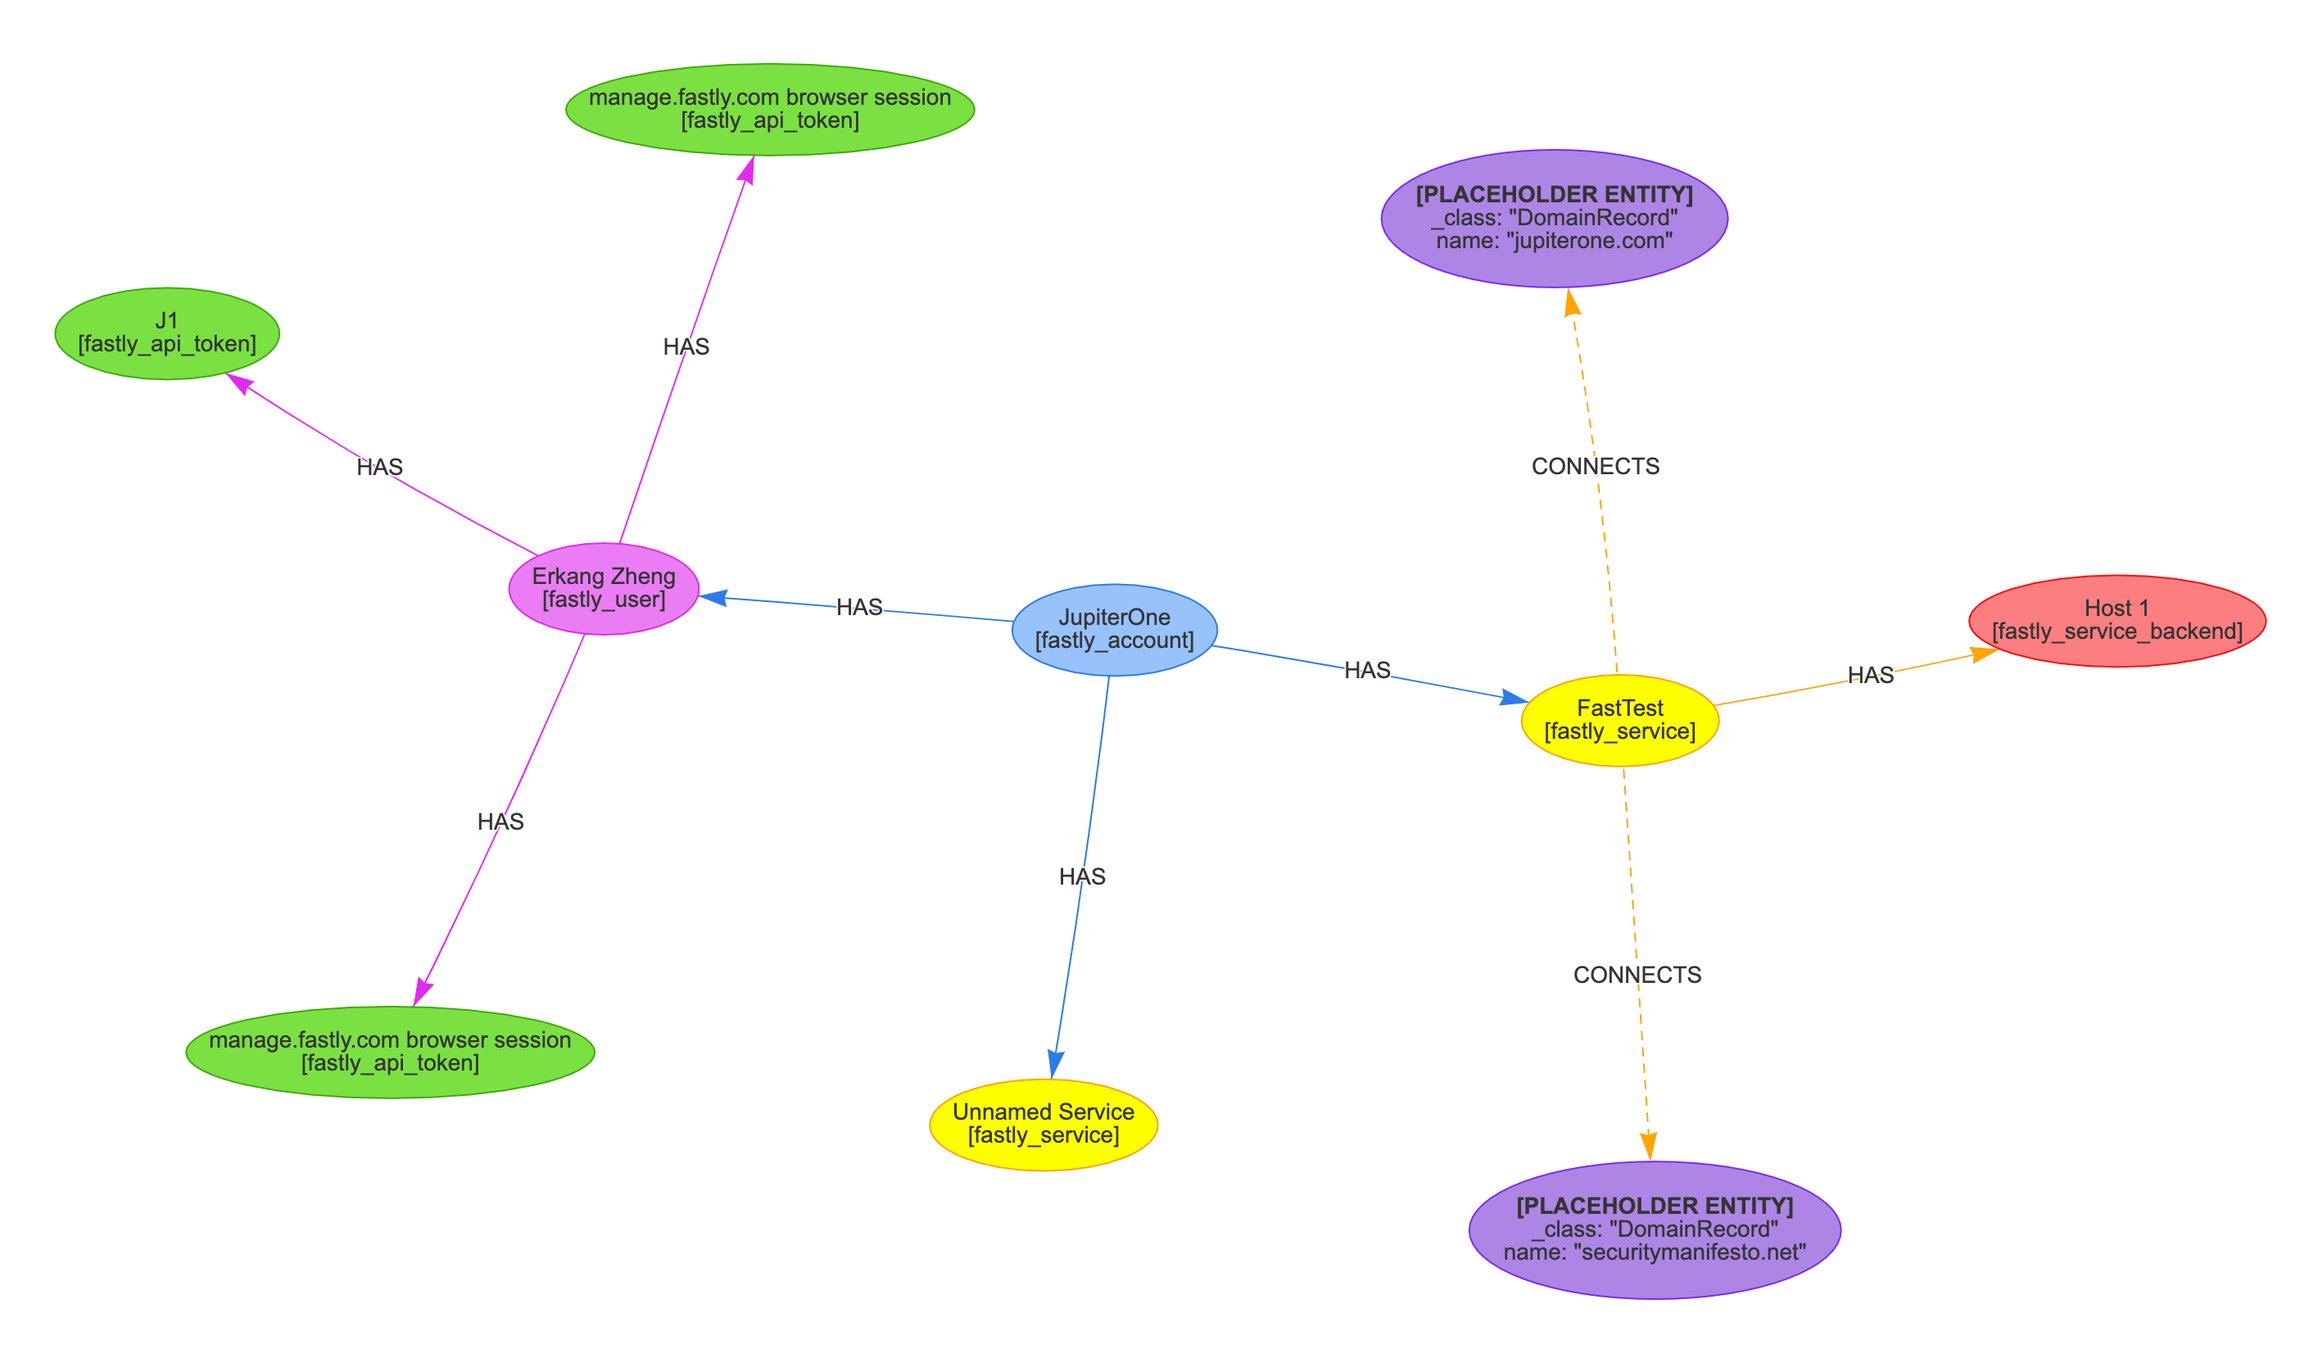
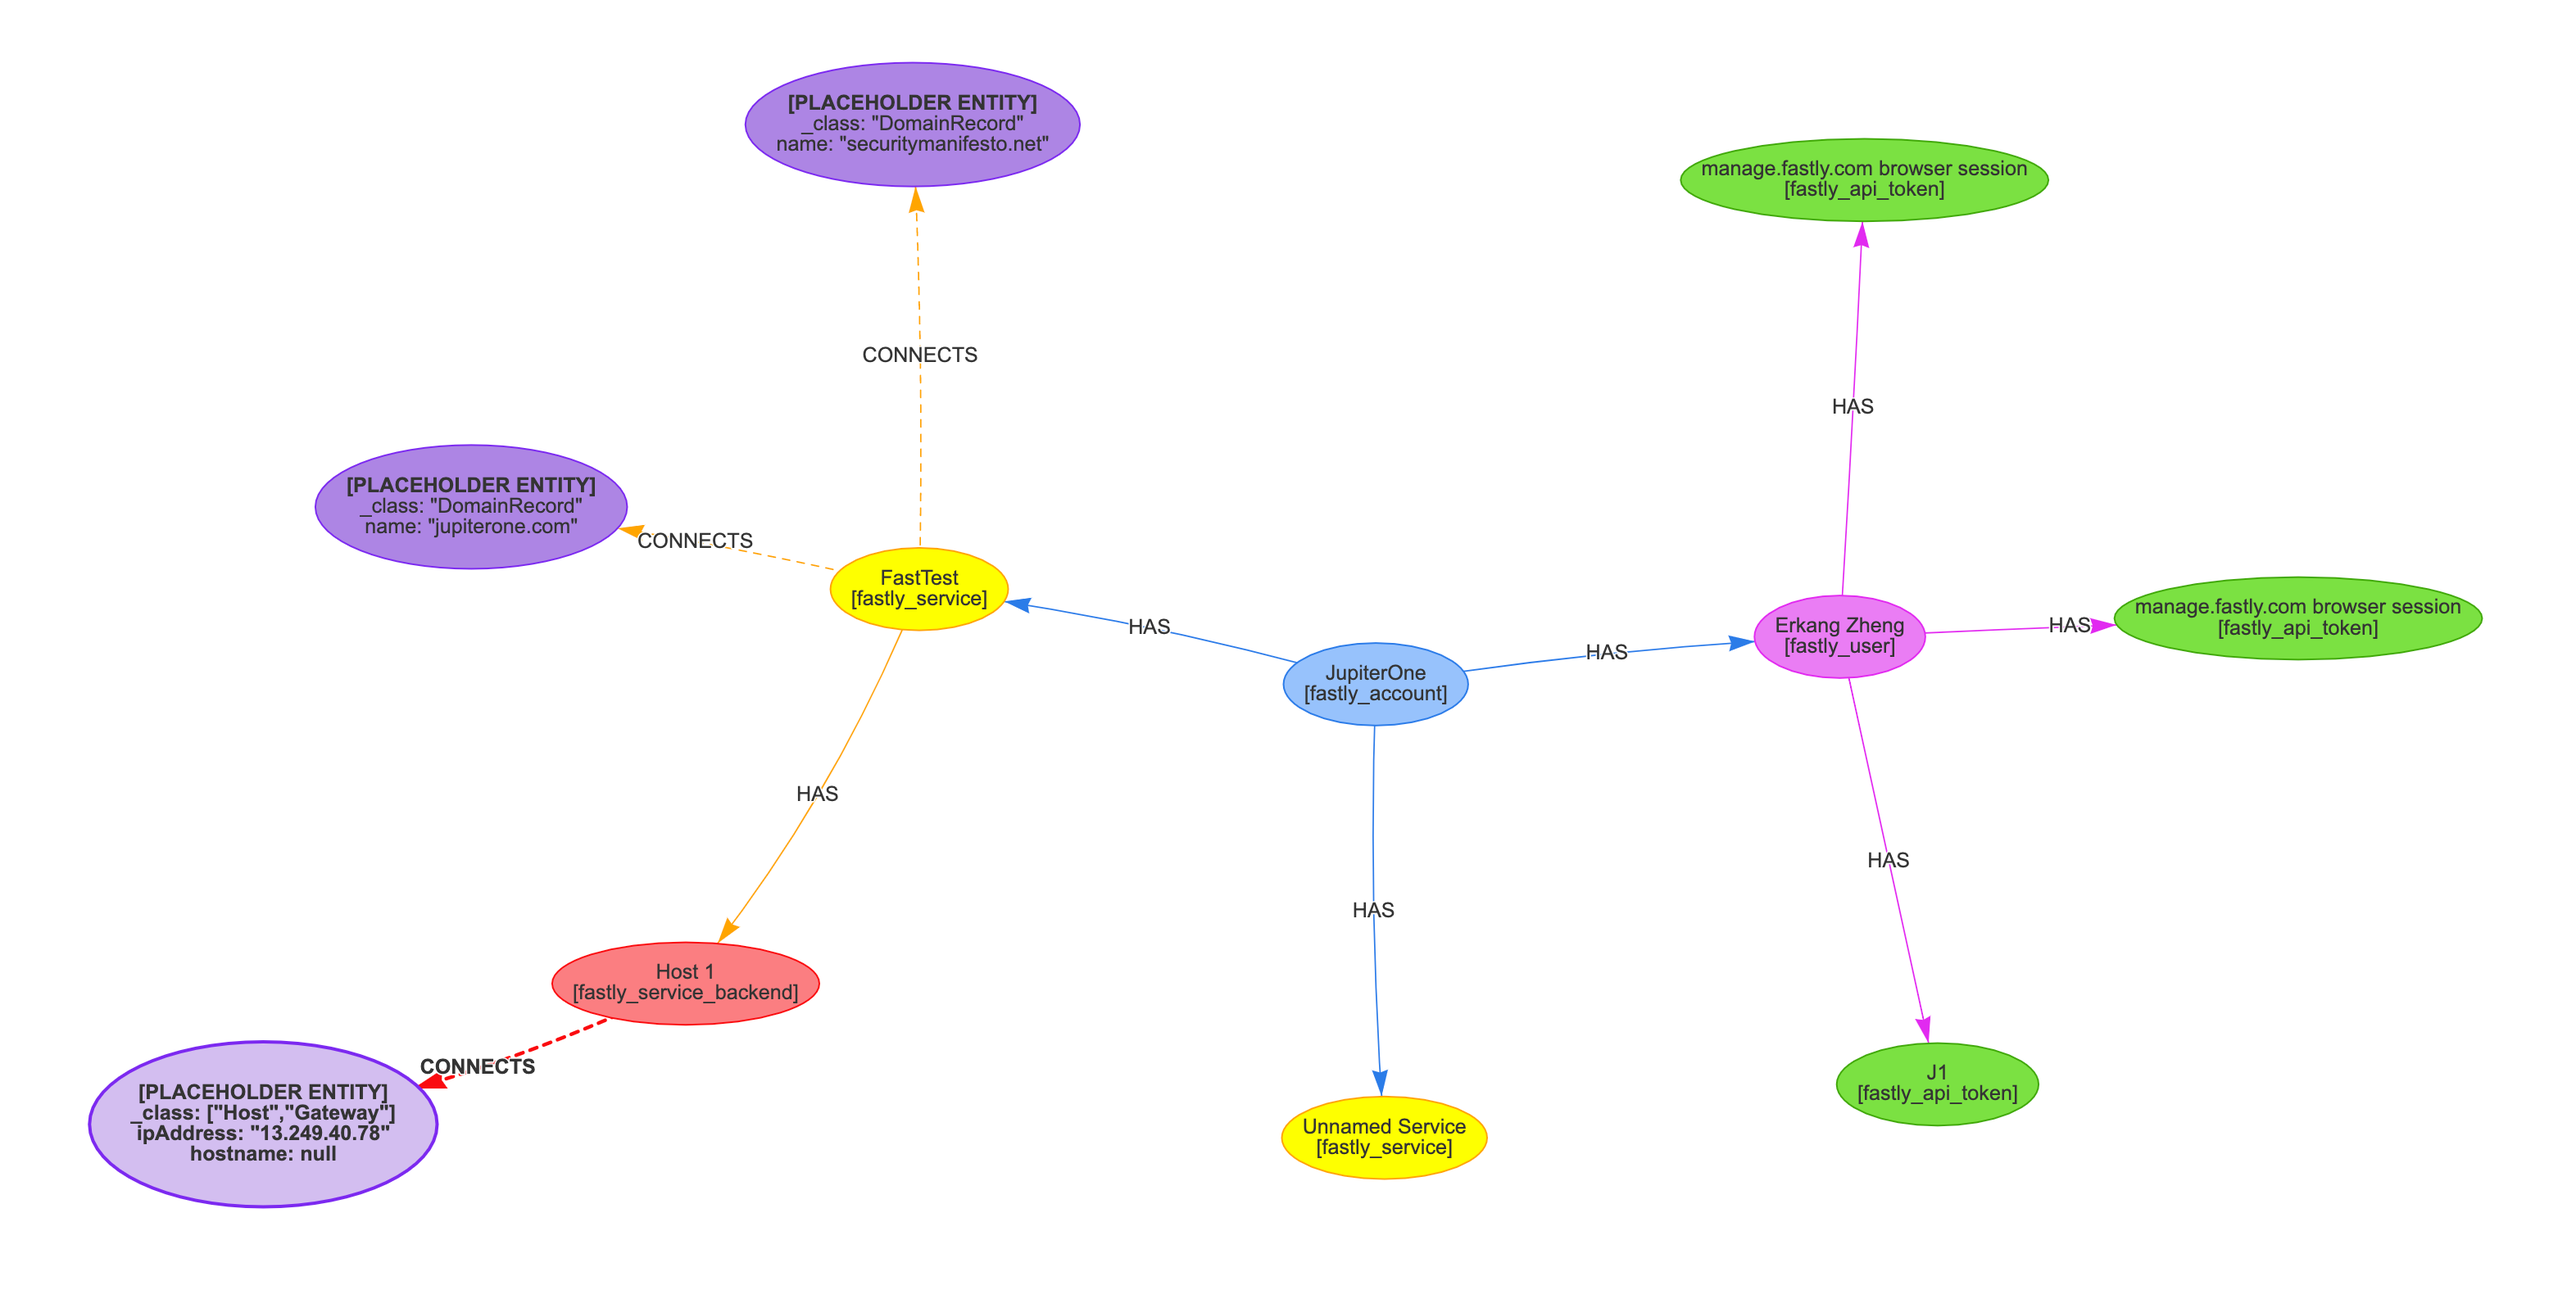
Add service_backend CONNECTS Host/Gateway mapping

diff --git a/src/steps/services.ts b/src/steps/services.ts
@@ -82,6 +82,26 @@ export async function fetchServices({
             to: backendEntity,
           }),
         ),
+        jobState.addRelationship(
+          createMappedRelationship({
+            _type: 'fastly_service_backend_connects_host',
+            _class: RelationshipClass.CONNECTS,
+            _mapping: {
+              sourceEntityKey: backendEntity._key,
+              relationshipDirection: RelationshipDirection.FORWARD,
+              targetFilterKeys: [
+                ['_class', 'ipAddress'],
+                ['_class', 'hostname'],
+              ],
+              targetEntity: {
+                _class: ['Host', 'Gateway'],
+                ipAddress: backend.address,
+                hostname: backend.hostname,
+              },
+              skipTargetCreation: true,
+            },
+          }),
+        ),
       ]);
     }
 
@@ -146,8 +166,14 @@ export const serviceSteps: IntegrationStep<IntegrationConfig>[] = [
         targetType: 'fastly_service_backend',
       },
       {
+        _type: 'fastly_service_backend_connects_host',
+        _class: RelationshipClass.CONNECTS,
+        sourceType: 'fastly_service_backend',
+        targetType: 'Host or Gateway',
+      },
+      {
         _type: 'fastly_service_connects_domain_record',
-        _class: RelationshipClass.HAS,
+        _class: RelationshipClass.CONNECTS,
         sourceType: 'fastly_service',
         targetType: 'DomainRecord',
       },

diff --git a/docs/jupiterone.md b/docs/jupiterone.md
@@ -45,14 +45,15 @@ The following entities are created:
 
 The following relationships are created/mapped:
 
-| Source Entity `_type` | Relationship `_class` | Target Entity `_type`    |
-| --------------------- | --------------------- | ------------------------ |
-| `fastly_account`      | **HAS**               | `fastly_user`            |
-| `fastly_account`      | **HAS**               | `fastly_api_token`       |
-| `fastly_user`         | **HAS**               | `fastly_api_token`       |
-| `fastly_account`      | **HAS**               | `fastly_service`         |
-| `fastly_service`      | **HAS**               | `fastly_service_backend` |
-| `fastly_service`      | **HAS**               | `DomainRecord`           |
+| Source Entity `_type`    | Relationship `_class` | Target Entity `_type`    |
+| ------------------------ | --------------------- | ------------------------ |
+| `fastly_account`         | **HAS**               | `fastly_user`            |
+| `fastly_account`         | **HAS**               | `fastly_api_token`       |
+| `fastly_user`            | **HAS**               | `fastly_api_token`       |
+| `fastly_account`         | **HAS**               | `fastly_service`         |
+| `fastly_service`         | **HAS**               | `fastly_service_backend` |
+| `fastly_service_backend` | **CONNECTS**          | `Host or Gateway`        |
+| `fastly_service`         | **CONNECTS**          | `DomainRecord`           |
 
 <!--
 ********************************************************************************
